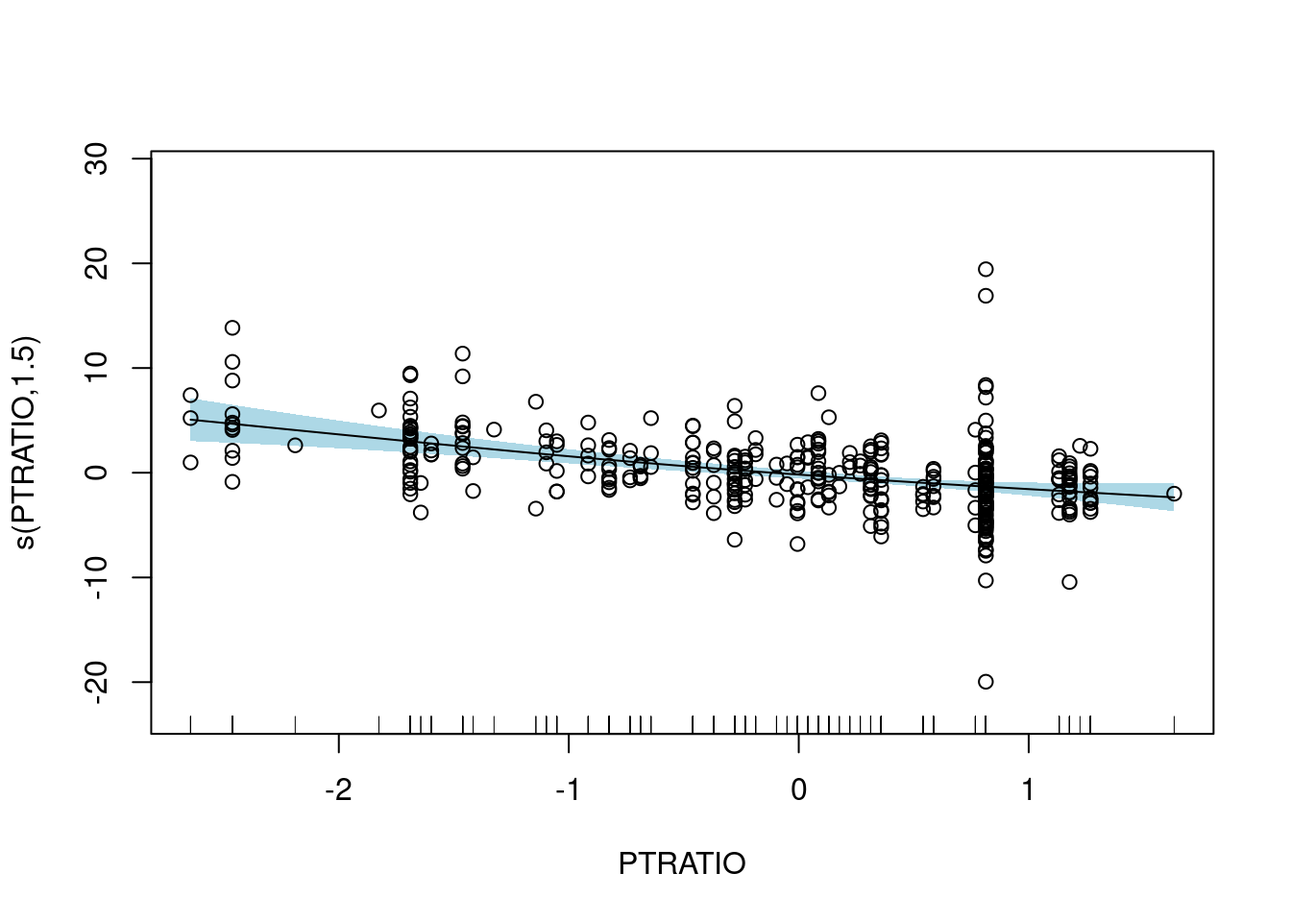
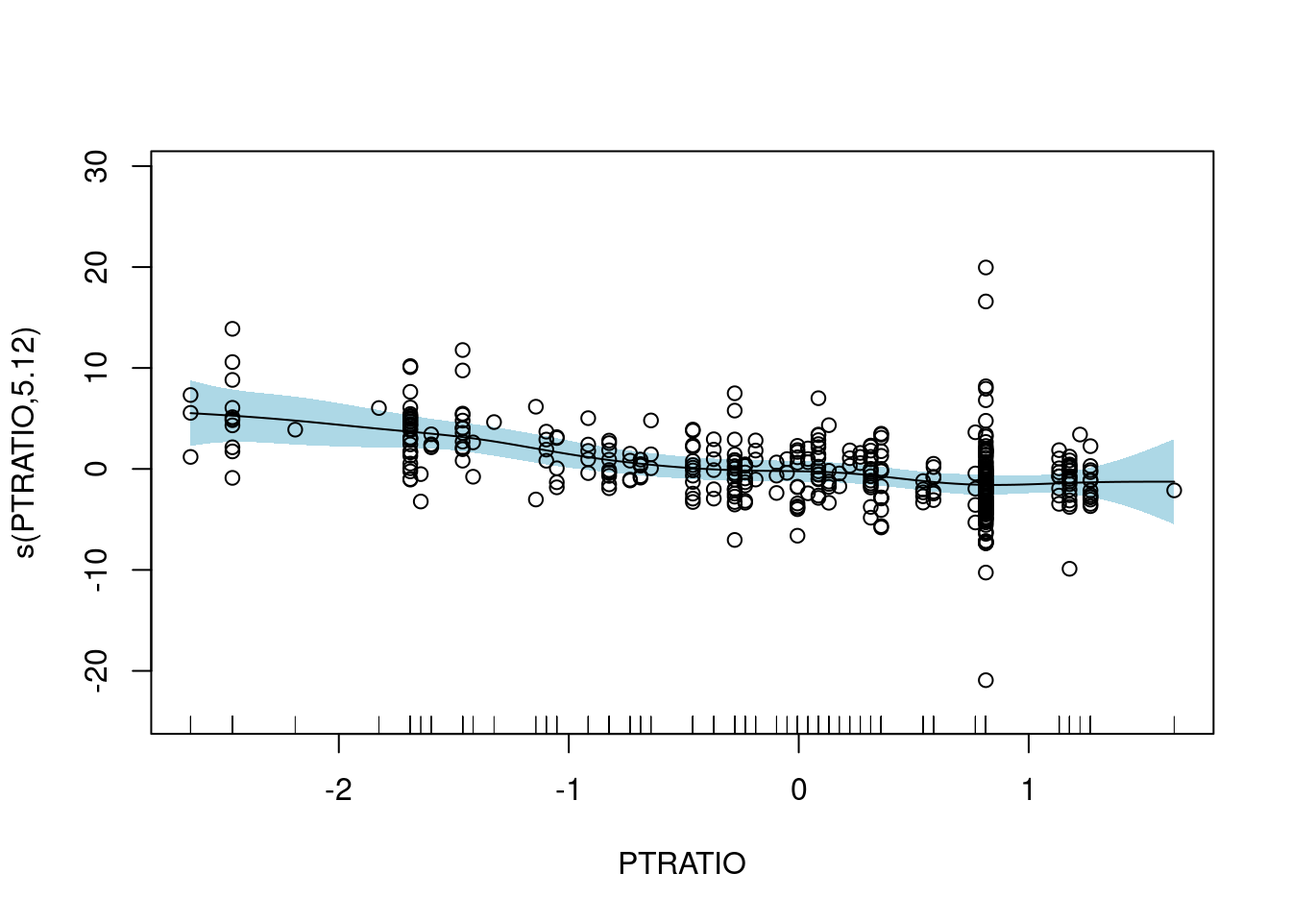
09.59

diff --git a/docs/final-model-1.html b/docs/final-model-1.html
@@ -167,7 +167,6 @@ code span.wa { color: #60a0b0; font-weight: bold; font-style: italic; } /* Warni
 <li class="chapter" data-level="3.4" data-path="final-model-1.html"><a href="final-model-1.html"><i class="fa fa-check"></i><b>3.4</b> Final Model</a>
 <ul>
 <li class="chapter" data-level="3.4.1" data-path="final-model-1.html"><a href="final-model-1.html#prediction-on-test-dataset-1"><i class="fa fa-check"></i><b>3.4.1</b> Prediction on Test Dataset</a></li>
-<li class="chapter" data-level="3.4.2" data-path="final-model-1.html"><a href="final-model-1.html#only-splines"><i class="fa fa-check"></i><b>3.4.2</b> Only splines?</a></li>
 </ul></li>
 </ul></li>
 <li class="chapter" data-level="4" data-path="conclusion.html"><a href="conclusion.html"><i class="fa fa-check"></i><b>4</b> Conclusion</a></li>
@@ -194,119 +193,50 @@ code span.wa { color: #60a0b0; font-weight: bold; font-style: italic; } /* Warni
 <h3><span class="header-section-number">3.4.1</span> Prediction on Test Dataset<a href="final-model-1.html#prediction-on-test-dataset-1" class="anchor-section" aria-label="Anchor link to header"></a></h3>
 <div class="sourceCode" id="cb52"><pre class="sourceCode r"><code class="sourceCode r"><span id="cb52-1"><a href="final-model-1.html#cb52-1" aria-hidden="true" tabindex="-1"></a><span class="co"># obtain predictions and test set RMSE</span></span>
 <span id="cb52-2"><a href="final-model-1.html#cb52-2" aria-hidden="true" tabindex="-1"></a></span>
-<span id="cb52-3"><a href="final-model-1.html#cb52-3" aria-hidden="true" tabindex="-1"></a>boston_final_model <span class="ot">&lt;-</span> <span class="fu">gam</span>(MEDV <span class="sc">~</span> CHAS <span class="sc">+</span> RAD <span class="sc">+</span> <span class="fu">s</span>(ZN) <span class="sc">+</span> <span class="fu">s</span>(PTRATIO) <span class="sc">+</span> <span class="fu">s</span>(TAX) <span class="sc">+</span> <span class="fu">s</span>(INDUS) <span class="sc">+</span> <span class="fu">s</span>(NOX,<span class="at">sp=</span><span class="fl">0.01</span>) <span class="sc">+</span> <span class="fu">s</span>(B,<span class="at">sp=</span><span class="dv">8</span>) <span class="sc">+</span> <span class="fu">s</span>(AGE) <span class="sc">+</span> <span class="fu">s</span>(DIS,<span class="at">sp=</span><span class="fl">0.01</span>) <span class="sc">+</span> <span class="fu">s</span>(RM,<span class="at">sp=</span><span class="dv">1</span>) <span class="sc">+</span> <span class="fu">s</span>(LSTAT) <span class="sc">+</span> <span class="fu">s</span>(CRIM), <span class="at">data =</span> boston_baked_train) </span>
+<span id="cb52-3"><a href="final-model-1.html#cb52-3" aria-hidden="true" tabindex="-1"></a>boston_final_model <span class="ot">&lt;-</span> <span class="fu">gam</span>(MEDV <span class="sc">~</span> CHAS <span class="sc">+</span> RAD <span class="sc">+</span> <span class="fu">s</span>(ZN, <span class="at">sp =</span> <span class="dv">1</span>, <span class="at">k =</span> <span class="dv">8</span>) <span class="sc">+</span> <span class="fu">s</span>(PTRATIO, <span class="at">sp =</span> <span class="fl">0.1</span>, <span class="at">k =</span> <span class="dv">12</span>) <span class="sc">+</span> <span class="fu">s</span>(TAX, <span class="at">sp =</span> <span class="fl">1.2</span>, <span class="at">k =</span> <span class="dv">13</span>) <span class="sc">+</span> <span class="fu">s</span>(INDUS,<span class="at">sp =</span> <span class="fl">0.1</span>, <span class="at">k =</span> <span class="dv">12</span>) <span class="sc">+</span> <span class="fu">s</span>(NOX, <span class="at">sp =</span> <span class="fl">0.01</span>, <span class="at">k =</span> <span class="dv">12</span>) <span class="sc">+</span> <span class="fu">s</span>(B, <span class="at">sp =</span> <span class="dv">8</span>, <span class="at">k =</span> <span class="dv">9</span>) <span class="sc">+</span> <span class="fu">s</span>(AGE, <span class="at">k =</span> <span class="dv">9</span>) <span class="sc">+</span> <span class="fu">s</span>(DIS,<span class="at">sp =</span> <span class="fl">0.01</span>, <span class="at">k =</span> <span class="dv">9</span>) <span class="sc">+</span> <span class="fu">s</span>(RM,<span class="at">sp =</span> <span class="fl">0.8</span>, <span class="at">k =</span> <span class="dv">9</span>) <span class="sc">+</span> <span class="fu">s</span>(LSTAT, <span class="at">k =</span> <span class="dv">9</span>) <span class="sc">+</span> <span class="fu">s</span>(CRIM, <span class="at">k =</span> <span class="dv">9</span>), <span class="at">data =</span> boston_baked_train) </span>
 <span id="cb52-4"><a href="final-model-1.html#cb52-4" aria-hidden="true" tabindex="-1"></a></span>
 <span id="cb52-5"><a href="final-model-1.html#cb52-5" aria-hidden="true" tabindex="-1"></a>boston_final_model_preds<span class="ot">&lt;-</span> <span class="fu">predict</span>(<span class="at">object =</span> boston_final_model, <span class="at">newdata =</span> boston_baked_test, <span class="at">type =</span> <span class="st">&quot;response&quot;</span>)    <span class="co"># obtain predictions</span></span>
 <span id="cb52-6"><a href="final-model-1.html#cb52-6" aria-hidden="true" tabindex="-1"></a></span>
 <span id="cb52-7"><a href="final-model-1.html#cb52-7" aria-hidden="true" tabindex="-1"></a><span class="fu">sqrt</span>(<span class="fu">mean</span>((boston_final_model_preds <span class="sc">-</span> boston_baked_test<span class="sc">$</span>MEDV)<span class="sc">^</span><span class="dv">2</span>))   <span class="co"># calculate test set RMSE</span></span></code></pre></div>
-<pre><code>## [1] 2.587925</code></pre>
+<pre><code>## [1] 2.628545</code></pre>
 <p>The test set RMSE is even smaller, which is a good sign.</p>
 <p>Comparing with using GAM model for <code>ames</code> dataset, using it for <code>boston</code> dataset seems to be a lot better.
 The reason to that is the fact that the <code>boston</code> dataset is a lot more complex then the <code>ames</code> dataset.</p>
 <div class="sourceCode" id="cb54"><pre class="sourceCode r"><code class="sourceCode r"><span id="cb54-1"><a href="final-model-1.html#cb54-1" aria-hidden="true" tabindex="-1"></a>boston_final_model<span class="sc">$</span>sp</span></code></pre></div>
-<pre><code>##        s(ZN)   s(PTRATIO)       s(TAX)     s(INDUS)       s(AGE)     s(LSTAT) 
-## 4.454571e+09 7.813311e+00 2.252458e-02 3.350616e-02 5.356143e+09 7.878517e-03 
-##      s(CRIM) 
-## 3.959924e-02</code></pre>
+<pre><code>##       s(AGE)     s(LSTAT)      s(CRIM) 
+## 1.494081e+09 1.072045e-02 1.667002e-02</code></pre>
 <div class="sourceCode" id="cb56"><pre class="sourceCode r"><code class="sourceCode r"><span id="cb56-1"><a href="final-model-1.html#cb56-1" aria-hidden="true" tabindex="-1"></a><span class="fu">plot</span>(boston_final_model, <span class="at">residuals=</span><span class="cn">TRUE</span>,<span class="at">shade =</span> <span class="cn">TRUE</span>, <span class="at">shade.col =</span> <span class="st">&quot;lightblue&quot;</span>, <span class="at">pch =</span> <span class="dv">1</span>)</span></code></pre></div>
 <p><img src="GAM_files/figure-html/unnamed-chunk-24-1.png" width="672" /><img src="GAM_files/figure-html/unnamed-chunk-24-2.png" width="672" /><img src="GAM_files/figure-html/unnamed-chunk-24-3.png" width="672" /><img src="GAM_files/figure-html/unnamed-chunk-24-4.png" width="672" /><img src="GAM_files/figure-html/unnamed-chunk-24-5.png" width="672" /><img src="GAM_files/figure-html/unnamed-chunk-24-6.png" width="672" /><img src="GAM_files/figure-html/unnamed-chunk-24-7.png" width="672" /><img src="GAM_files/figure-html/unnamed-chunk-24-8.png" width="672" /><img src="GAM_files/figure-html/unnamed-chunk-24-9.png" width="672" /><img src="GAM_files/figure-html/unnamed-chunk-24-10.png" width="672" /><img src="GAM_files/figure-html/unnamed-chunk-24-11.png" width="672" /></p>
 <p>Let’s look at the residual plot for the <code>boston</code> final model.
 As we can see from above, only two of the graphs seem to have a slope close to 0, and lots of others with non-parametric relationships.
 This is a sign that the model is way more complex, compared to the <code>ames</code> dataset, where only 3 explanatory variables seemed to have non-parametric relationship with the response.</p>
-</div>
-<div id="only-splines" class="section level3 hasAnchor" number="3.4.2">
-<h3><span class="header-section-number">3.4.2</span> Only splines?<a href="final-model-1.html#only-splines" class="anchor-section" aria-label="Anchor link to header"></a></h3>
-<p>What happens if we only use the variables with splines to predict the response <code>MEDV</code>?
-As we’ve seen from the attempt in <code>ames</code>, the RMSE of only using splines as the explanatory variables had reduced the RMSE.
-Would that work the same here?</p>
-<div class="sourceCode" id="cb57"><pre class="sourceCode r"><code class="sourceCode r"><span id="cb57-1"><a href="final-model-1.html#cb57-1" aria-hidden="true" tabindex="-1"></a><span class="co"># obtain predictions and test set RMSE</span></span>
-<span id="cb57-2"><a href="final-model-1.html#cb57-2" aria-hidden="true" tabindex="-1"></a></span>
-<span id="cb57-3"><a href="final-model-1.html#cb57-3" aria-hidden="true" tabindex="-1"></a>boston_final_model2 <span class="ot">&lt;-</span> <span class="fu">gam</span>(MEDV<span class="sc">~</span> <span class="fu">s</span>(ZN) <span class="sc">+</span> <span class="fu">s</span>(PTRATIO) <span class="sc">+</span> <span class="fu">s</span>(TAX) <span class="sc">+</span> <span class="fu">s</span>(INDUS) <span class="sc">+</span> </span>
-<span id="cb57-4"><a href="final-model-1.html#cb57-4" aria-hidden="true" tabindex="-1"></a>    <span class="fu">s</span>(NOX) <span class="sc">+</span> <span class="fu">s</span>(B) <span class="sc">+</span> <span class="fu">s</span>(AGE) <span class="sc">+</span> <span class="fu">s</span>(DIS) <span class="sc">+</span> <span class="fu">s</span>(RM) <span class="sc">+</span> <span class="fu">s</span>(LSTAT) <span class="sc">+</span> <span class="fu">s</span>(CRIM),<span class="at">data=</span>boston_baked_train) </span>
-<span id="cb57-5"><a href="final-model-1.html#cb57-5" aria-hidden="true" tabindex="-1"></a></span>
-<span id="cb57-6"><a href="final-model-1.html#cb57-6" aria-hidden="true" tabindex="-1"></a>boston_final_model_preds2<span class="ot">&lt;-</span> <span class="fu">predict</span>(<span class="at">object =</span> boston_final_model2, <span class="at">newdata =</span> boston_baked_test, <span class="at">type =</span> <span class="st">&quot;response&quot;</span>)    <span class="co"># obtain predictions</span></span>
-<span id="cb57-7"><a href="final-model-1.html#cb57-7" aria-hidden="true" tabindex="-1"></a></span>
-<span id="cb57-8"><a href="final-model-1.html#cb57-8" aria-hidden="true" tabindex="-1"></a><span class="fu">sqrt</span>(<span class="fu">mean</span>((boston_final_model_preds2 <span class="sc">-</span> boston_baked_test<span class="sc">$</span>MEDV)<span class="sc">^</span><span class="dv">2</span>))   <span class="co"># calculate test set RMSE</span></span></code></pre></div>
-<pre><code>## [1] 3.059528</code></pre>
-<div class="sourceCode" id="cb59"><pre class="sourceCode r"><code class="sourceCode r"><span id="cb59-1"><a href="final-model-1.html#cb59-1" aria-hidden="true" tabindex="-1"></a><span class="fu">coef</span>(boston_final_model)</span></code></pre></div>
-<pre><code>##   (Intercept)          CHAS           RAD       s(ZN).1       s(ZN).2 
-##  2.267715e+01  2.306602e-01  3.696429e+00 -6.171248e-10 -1.192929e-09 
-##       s(ZN).3       s(ZN).4       s(ZN).5       s(ZN).6       s(ZN).7 
-##  7.480567e-10  9.679073e-10 -8.251085e-10  1.004524e-09  6.413288e-10 
-##       s(ZN).8       s(ZN).9  s(PTRATIO).1  s(PTRATIO).2  s(PTRATIO).3 
-## -4.914602e-09  2.564574e-01  5.422391e-02 -1.211415e-01 -7.051639e-02 
-##  s(PTRATIO).4  s(PTRATIO).5  s(PTRATIO).6  s(PTRATIO).7  s(PTRATIO).8 
-##  1.430908e-01  1.405820e-04  1.216246e-01  3.704855e-02 -7.120412e-01 
-##  s(PTRATIO).9      s(TAX).1      s(TAX).2      s(TAX).3      s(TAX).4 
-## -1.715808e+00  2.993991e+00  2.935675e+01 -1.014211e+01 -1.487407e+01 
-##      s(TAX).5      s(TAX).6      s(TAX).7      s(TAX).8      s(TAX).9 
-## -3.938658e+00 -5.852286e+00 -1.916158e+00 -3.806928e+01 -7.516277e+00 
-##    s(INDUS).1    s(INDUS).2    s(INDUS).3    s(INDUS).4    s(INDUS).5 
-## -1.910599e+00 -2.438087e+00  1.212783e+00 -4.881653e-01  3.066354e-01 
-##    s(INDUS).6    s(INDUS).7    s(INDUS).8    s(INDUS).9      s(NOX).1 
-## -2.668014e-02  1.709398e-01 -6.021530e-02 -3.975620e+00 -2.050677e+00 
-##      s(NOX).2      s(NOX).3      s(NOX).4      s(NOX).5      s(NOX).6 
-## -6.460199e+00 -9.963736e-01  6.063462e+00  5.378468e+00 -7.239073e+00 
-##      s(NOX).7      s(NOX).8      s(NOX).9        s(B).1        s(B).2 
-## -7.317250e-01  2.300479e+01 -1.525602e+00  7.301973e-02  3.907277e-01 
-##        s(B).3        s(B).4        s(B).5        s(B).6        s(B).7 
-## -2.307254e-01  3.563254e-01  1.252734e-01 -3.444455e-01  1.429641e-01 
-##        s(B).8        s(B).9      s(AGE).1      s(AGE).2      s(AGE).3 
-##  1.385920e+00  3.345819e-01  2.432147e-10  9.770880e-11 -5.407283e-12 
-##      s(AGE).4      s(AGE).5      s(AGE).6      s(AGE).7      s(AGE).8 
-##  1.435831e-10 -1.372146e-11  1.244386e-10  2.091760e-13  5.642444e-10 
-##      s(AGE).9      s(DIS).1      s(DIS).2      s(DIS).3      s(DIS).4 
-##  1.459007e-01 -4.837707e+00  3.956269e+00 -3.199652e+00 -2.251719e+00 
-##      s(DIS).5      s(DIS).6      s(DIS).7      s(DIS).8      s(DIS).9 
-##  2.483504e+00 -2.030837e+00  4.740723e-01  3.452745e+00 -1.522897e+01 
-##       s(RM).1       s(RM).2       s(RM).3       s(RM).4       s(RM).5 
-## -3.470665e-01  4.647636e-01  3.080395e-02  1.835072e-01  1.947112e-01 
-##       s(RM).6       s(RM).7       s(RM).8       s(RM).9    s(LSTAT).1 
-## -2.292482e-01 -1.337610e-01 -3.438966e+00  1.995920e+00  2.850793e+00 
-##    s(LSTAT).2    s(LSTAT).3    s(LSTAT).4    s(LSTAT).5    s(LSTAT).6 
-## -1.276700e+01  1.704206e+00  6.374418e+00  3.064578e+00  6.886423e+00 
-##    s(LSTAT).7    s(LSTAT).8    s(LSTAT).9     s(CRIM).1     s(CRIM).2 
-##  1.410919e+00 -2.153757e+01 -1.198140e+01  7.184804e+00  1.449372e+01 
-##     s(CRIM).3     s(CRIM).4     s(CRIM).5     s(CRIM).6     s(CRIM).7 
-## -1.802656e-01 -7.457285e+00  5.760114e+00  6.780832e+00 -1.334425e+00 
-##     s(CRIM).8     s(CRIM).9 
-##  1.941030e+01 -3.077602e+00</code></pre>
-<div class="sourceCode" id="cb61"><pre class="sourceCode r"><code class="sourceCode r"><span id="cb61-1"><a href="final-model-1.html#cb61-1" aria-hidden="true" tabindex="-1"></a><span class="fu">summary</span>(boston_final_model)</span></code></pre></div>
+<div class="sourceCode" id="cb57"><pre class="sourceCode r"><code class="sourceCode r"><span id="cb57-1"><a href="final-model-1.html#cb57-1" aria-hidden="true" tabindex="-1"></a><span class="fu">set.seed</span>(<span class="dv">111</span>)</span>
+<span id="cb57-2"><a href="final-model-1.html#cb57-2" aria-hidden="true" tabindex="-1"></a><span class="fu">gam.check</span>(boston_final_model)</span></code></pre></div>
+<p><img src="GAM_files/figure-html/unnamed-chunk-25-1.png" width="672" /></p>
 <pre><code>## 
-## Family: gaussian 
-## Link function: identity 
+## Method: GCV   Optimizer: magic
+## Smoothing parameter selection converged after 14 iterations.
+## The RMS GCV score gradient at convergence was 8.826314e-07 .
+## The Hessian was positive definite.
+## Model rank =  103 / 103 
 ## 
-## Formula:
-## MEDV ~ CHAS + RAD + s(ZN) + s(PTRATIO) + s(TAX) + s(INDUS) + 
-##     s(NOX, sp = 0.01) + s(B, sp = 8) + s(AGE) + s(DIS, sp = 0.01) + 
-##     s(RM, sp = 1) + s(LSTAT) + s(CRIM)
+## Basis dimension (k) checking results. Low p-value (k-index&lt;1) may
+## indicate that k is too low, especially if edf is close to k&#39;.
 ## 
-## Parametric coefficients:
-##             Estimate Std. Error t value Pr(&gt;|t|)    
-## (Intercept)  22.6771     0.1689  134.25  &lt; 2e-16 ***
-## CHAS          0.2307     0.1906    1.21  0.22711    
-## RAD           3.6964     1.2404    2.98  0.00308 ** 
+##               k&#39;   edf k-index p-value    
+## s(ZN)       7.00  2.28    0.71  &lt;2e-16 ***
+## s(PTRATIO) 11.00  5.12    0.72  &lt;2e-16 ***
+## s(TAX)     12.00  3.57    0.72  &lt;2e-16 ***
+## s(INDUS)   11.00  4.30    0.68  &lt;2e-16 ***
+## s(NOX)     11.00  8.39    0.88  &lt;2e-16 ***
+## s(B)        8.00  1.42    0.99    0.45    
+## s(AGE)      8.00  1.00    1.05    0.80    
+## s(DIS)      8.00  6.42    0.84  &lt;2e-16 ***
+## s(RM)       8.00  3.16    0.93    0.04 *  
+## s(LSTAT)    8.00  6.93    1.03    0.76    
+## s(CRIM)     8.00  4.42    1.03    0.77    
 ## ---
-## Signif. codes:  0 &#39;***&#39; 0.001 &#39;**&#39; 0.01 &#39;*&#39; 0.05 &#39;.&#39; 0.1 &#39; &#39; 1
-## 
-## Approximate significance of smooth terms:
-##              edf Ref.df      F  p-value    
-## s(ZN)      1.000  1.000  0.458   0.4991    
-## s(PTRATIO) 1.504  1.832 18.817 8.43e-07 ***
-## s(TAX)     6.470  7.469  5.684 2.51e-06 ***
-## s(INDUS)   4.462  5.370  2.015   0.0416 *  
-## s(NOX)     7.261  8.166 10.278  &lt; 2e-16 ***
-## s(B)       1.594  1.954  2.543   0.1170    
-## s(AGE)     1.000  1.000  0.159   0.6904    
-## s(DIS)     7.165  8.173  5.533 2.13e-06 ***
-## s(RM)      2.718  3.482 33.901  &lt; 2e-16 ***
-## s(LSTAT)   7.686  8.528 21.732  &lt; 2e-16 ***
-## s(CRIM)    4.694  5.582  7.410 9.66e-07 ***
-## ---
-## Signif. codes:  0 &#39;***&#39; 0.001 &#39;**&#39; 0.01 &#39;*&#39; 0.05 &#39;.&#39; 0.1 &#39; &#39; 1
-## 
-## R-sq.(adj) =  0.866   Deviance explained = 88.2%
-## GCV = 13.187  Scale est. = 11.614    n = 407</code></pre>
+## Signif. codes:  0 &#39;***&#39; 0.001 &#39;**&#39; 0.01 &#39;*&#39; 0.05 &#39;.&#39; 0.1 &#39; &#39; 1</code></pre>
 
 </div>
 </div>

diff --git a/docs/index.html b/docs/index.html
@@ -167,7 +167,6 @@ code span.wa { color: #60a0b0; font-weight: bold; font-style: italic; } /* Warni
 <li class="chapter" data-level="3.4" data-path="final-model-1.html"><a href="final-model-1.html"><i class="fa fa-check"></i><b>3.4</b> Final Model</a>
 <ul>
 <li class="chapter" data-level="3.4.1" data-path="final-model-1.html"><a href="final-model-1.html#prediction-on-test-dataset-1"><i class="fa fa-check"></i><b>3.4.1</b> Prediction on Test Dataset</a></li>
-<li class="chapter" data-level="3.4.2" data-path="final-model-1.html"><a href="final-model-1.html#only-splines"><i class="fa fa-check"></i><b>3.4.2</b> Only splines?</a></li>
 </ul></li>
 </ul></li>
 <li class="chapter" data-level="4" data-path="conclusion.html"><a href="conclusion.html"><i class="fa fa-check"></i><b>4</b> Conclusion</a></li>
@@ -191,7 +190,7 @@ code span.wa { color: #60a0b0; font-weight: bold; font-style: italic; } /* Warni
 <div id="header">
 <h1 class="title">CMSC 208 Final Project</h1>
 <p class="author"><em>Yi Lu, Shiyi Yang</em></p>
-<p class="date"><em>March 12, 2023 02:21 UTC</em></p>
+<p class="date"><em>March 12, 2023 03:46 UTC</em></p>
 </div>
 <div id="introduction" class="section level1 hasAnchor" number="1">
 <h1><span class="header-section-number">1</span> Introduction<a href="index.html#introduction" class="anchor-section" aria-label="Anchor link to header"></a></h1>

diff --git a/docs/ames-housing-dataset-example.html b/docs/ames-housing-dataset-example.html
@@ -167,7 +167,6 @@ code span.wa { color: #60a0b0; font-weight: bold; font-style: italic; } /* Warni
 <li class="chapter" data-level="3.4" data-path="final-model-1.html"><a href="final-model-1.html"><i class="fa fa-check"></i><b>3.4</b> Final Model</a>
 <ul>
 <li class="chapter" data-level="3.4.1" data-path="final-model-1.html"><a href="final-model-1.html#prediction-on-test-dataset-1"><i class="fa fa-check"></i><b>3.4.1</b> Prediction on Test Dataset</a></li>
-<li class="chapter" data-level="3.4.2" data-path="final-model-1.html"><a href="final-model-1.html#only-splines"><i class="fa fa-check"></i><b>3.4.2</b> Only splines?</a></li>
 </ul></li>
 </ul></li>
 <li class="chapter" data-level="4" data-path="conclusion.html"><a href="conclusion.html"><i class="fa fa-check"></i><b>4</b> Conclusion</a></li>

diff --git a/docs/analysis-1.html b/docs/analysis-1.html
@@ -167,7 +167,6 @@ code span.wa { color: #60a0b0; font-weight: bold; font-style: italic; } /* Warni
 <li class="chapter" data-level="3.4" data-path="final-model-1.html"><a href="final-model-1.html"><i class="fa fa-check"></i><b>3.4</b> Final Model</a>
 <ul>
 <li class="chapter" data-level="3.4.1" data-path="final-model-1.html"><a href="final-model-1.html#prediction-on-test-dataset-1"><i class="fa fa-check"></i><b>3.4.1</b> Prediction on Test Dataset</a></li>
-<li class="chapter" data-level="3.4.2" data-path="final-model-1.html"><a href="final-model-1.html#only-splines"><i class="fa fa-check"></i><b>3.4.2</b> Only splines?</a></li>
 </ul></li>
 </ul></li>
 <li class="chapter" data-level="4" data-path="conclusion.html"><a href="conclusion.html"><i class="fa fa-check"></i><b>4</b> Conclusion</a></li>

diff --git a/docs/analysis.html b/docs/analysis.html
@@ -167,7 +167,6 @@ code span.wa { color: #60a0b0; font-weight: bold; font-style: italic; } /* Warni
 <li class="chapter" data-level="3.4" data-path="final-model-1.html"><a href="final-model-1.html"><i class="fa fa-check"></i><b>3.4</b> Final Model</a>
 <ul>
 <li class="chapter" data-level="3.4.1" data-path="final-model-1.html"><a href="final-model-1.html#prediction-on-test-dataset-1"><i class="fa fa-check"></i><b>3.4.1</b> Prediction on Test Dataset</a></li>
-<li class="chapter" data-level="3.4.2" data-path="final-model-1.html"><a href="final-model-1.html#only-splines"><i class="fa fa-check"></i><b>3.4.2</b> Only splines?</a></li>
 </ul></li>
 </ul></li>
 <li class="chapter" data-level="4" data-path="conclusion.html"><a href="conclusion.html"><i class="fa fa-check"></i><b>4</b> Conclusion</a></li>

diff --git a/docs/boston-housing-dataset-example.html b/docs/boston-housing-dataset-example.html
@@ -167,7 +167,6 @@ code span.wa { color: #60a0b0; font-weight: bold; font-style: italic; } /* Warni
 <li class="chapter" data-level="3.4" data-path="final-model-1.html"><a href="final-model-1.html"><i class="fa fa-check"></i><b>3.4</b> Final Model</a>
 <ul>
 <li class="chapter" data-level="3.4.1" data-path="final-model-1.html"><a href="final-model-1.html#prediction-on-test-dataset-1"><i class="fa fa-check"></i><b>3.4.1</b> Prediction on Test Dataset</a></li>
-<li class="chapter" data-level="3.4.2" data-path="final-model-1.html"><a href="final-model-1.html#only-splines"><i class="fa fa-check"></i><b>3.4.2</b> Only splines?</a></li>
 </ul></li>
 </ul></li>
 <li class="chapter" data-level="4" data-path="conclusion.html"><a href="conclusion.html"><i class="fa fa-check"></i><b>4</b> Conclusion</a></li>

diff --git a/docs/conclusion.html b/docs/conclusion.html
@@ -167,7 +167,6 @@ code span.wa { color: #60a0b0; font-weight: bold; font-style: italic; } /* Warni
 <li class="chapter" data-level="3.4" data-path="final-model-1.html"><a href="final-model-1.html"><i class="fa fa-check"></i><b>3.4</b> Final Model</a>
 <ul>
 <li class="chapter" data-level="3.4.1" data-path="final-model-1.html"><a href="final-model-1.html#prediction-on-test-dataset-1"><i class="fa fa-check"></i><b>3.4.1</b> Prediction on Test Dataset</a></li>
-<li class="chapter" data-level="3.4.2" data-path="final-model-1.html"><a href="final-model-1.html#only-splines"><i class="fa fa-check"></i><b>3.4.2</b> Only splines?</a></li>
 </ul></li>
 </ul></li>
 <li class="chapter" data-level="4" data-path="conclusion.html"><a href="conclusion.html"><i class="fa fa-check"></i><b>4</b> Conclusion</a></li>

diff --git a/docs/final-model.html b/docs/final-model.html
@@ -167,7 +167,6 @@ code span.wa { color: #60a0b0; font-weight: bold; font-style: italic; } /* Warni
 <li class="chapter" data-level="3.4" data-path="final-model-1.html"><a href="final-model-1.html"><i class="fa fa-check"></i><b>3.4</b> Final Model</a>
 <ul>
 <li class="chapter" data-level="3.4.1" data-path="final-model-1.html"><a href="final-model-1.html#prediction-on-test-dataset-1"><i class="fa fa-check"></i><b>3.4.1</b> Prediction on Test Dataset</a></li>
-<li class="chapter" data-level="3.4.2" data-path="final-model-1.html"><a href="final-model-1.html#only-splines"><i class="fa fa-check"></i><b>3.4.2</b> Only splines?</a></li>
 </ul></li>
 </ul></li>
 <li class="chapter" data-level="4" data-path="conclusion.html"><a href="conclusion.html"><i class="fa fa-check"></i><b>4</b> Conclusion</a></li>

diff --git a/docs/preparation-steps-1.html b/docs/preparation-steps-1.html
@@ -167,7 +167,6 @@ code span.wa { color: #60a0b0; font-weight: bold; font-style: italic; } /* Warni
 <li class="chapter" data-level="3.4" data-path="final-model-1.html"><a href="final-model-1.html"><i class="fa fa-check"></i><b>3.4</b> Final Model</a>
 <ul>
 <li class="chapter" data-level="3.4.1" data-path="final-model-1.html"><a href="final-model-1.html#prediction-on-test-dataset-1"><i class="fa fa-check"></i><b>3.4.1</b> Prediction on Test Dataset</a></li>
-<li class="chapter" data-level="3.4.2" data-path="final-model-1.html"><a href="final-model-1.html#only-splines"><i class="fa fa-check"></i><b>3.4.2</b> Only splines?</a></li>
 </ul></li>
 </ul></li>
 <li class="chapter" data-level="4" data-path="conclusion.html"><a href="conclusion.html"><i class="fa fa-check"></i><b>4</b> Conclusion</a></li>

diff --git a/docs/preparation-steps.html b/docs/preparation-steps.html
@@ -167,7 +167,6 @@ code span.wa { color: #60a0b0; font-weight: bold; font-style: italic; } /* Warni
 <li class="chapter" data-level="3.4" data-path="final-model-1.html"><a href="final-model-1.html"><i class="fa fa-check"></i><b>3.4</b> Final Model</a>
 <ul>
 <li class="chapter" data-level="3.4.1" data-path="final-model-1.html"><a href="final-model-1.html#prediction-on-test-dataset-1"><i class="fa fa-check"></i><b>3.4.1</b> Prediction on Test Dataset</a></li>
-<li class="chapter" data-level="3.4.2" data-path="final-model-1.html"><a href="final-model-1.html#only-splines"><i class="fa fa-check"></i><b>3.4.2</b> Only splines?</a></li>
 </ul></li>
 </ul></li>
 <li class="chapter" data-level="4" data-path="conclusion.html"><a href="conclusion.html"><i class="fa fa-check"></i><b>4</b> Conclusion</a></li>

diff --git a/docs/recipt-and-blueprint-1.html b/docs/recipt-and-blueprint-1.html
@@ -167,7 +167,6 @@ code span.wa { color: #60a0b0; font-weight: bold; font-style: italic; } /* Warni
 <li class="chapter" data-level="3.4" data-path="final-model-1.html"><a href="final-model-1.html"><i class="fa fa-check"></i><b>3.4</b> Final Model</a>
 <ul>
 <li class="chapter" data-level="3.4.1" data-path="final-model-1.html"><a href="final-model-1.html#prediction-on-test-dataset-1"><i class="fa fa-check"></i><b>3.4.1</b> Prediction on Test Dataset</a></li>
-<li class="chapter" data-level="3.4.2" data-path="final-model-1.html"><a href="final-model-1.html#only-splines"><i class="fa fa-check"></i><b>3.4.2</b> Only splines?</a></li>
 </ul></li>
 </ul></li>
 <li class="chapter" data-level="4" data-path="conclusion.html"><a href="conclusion.html"><i class="fa fa-check"></i><b>4</b> Conclusion</a></li>

diff --git a/docs/recipt-and-blueprint.html b/docs/recipt-and-blueprint.html
@@ -167,7 +167,6 @@ code span.wa { color: #60a0b0; font-weight: bold; font-style: italic; } /* Warni
 <li class="chapter" data-level="3.4" data-path="final-model-1.html"><a href="final-model-1.html"><i class="fa fa-check"></i><b>3.4</b> Final Model</a>
 <ul>
 <li class="chapter" data-level="3.4.1" data-path="final-model-1.html"><a href="final-model-1.html#prediction-on-test-dataset-1"><i class="fa fa-check"></i><b>3.4.1</b> Prediction on Test Dataset</a></li>
-<li class="chapter" data-level="3.4.2" data-path="final-model-1.html"><a href="final-model-1.html#only-splines"><i class="fa fa-check"></i><b>3.4.2</b> Only splines?</a></li>
 </ul></li>
 </ul></li>
 <li class="chapter" data-level="4" data-path="conclusion.html"><a href="conclusion.html"><i class="fa fa-check"></i><b>4</b> Conclusion</a></li>
